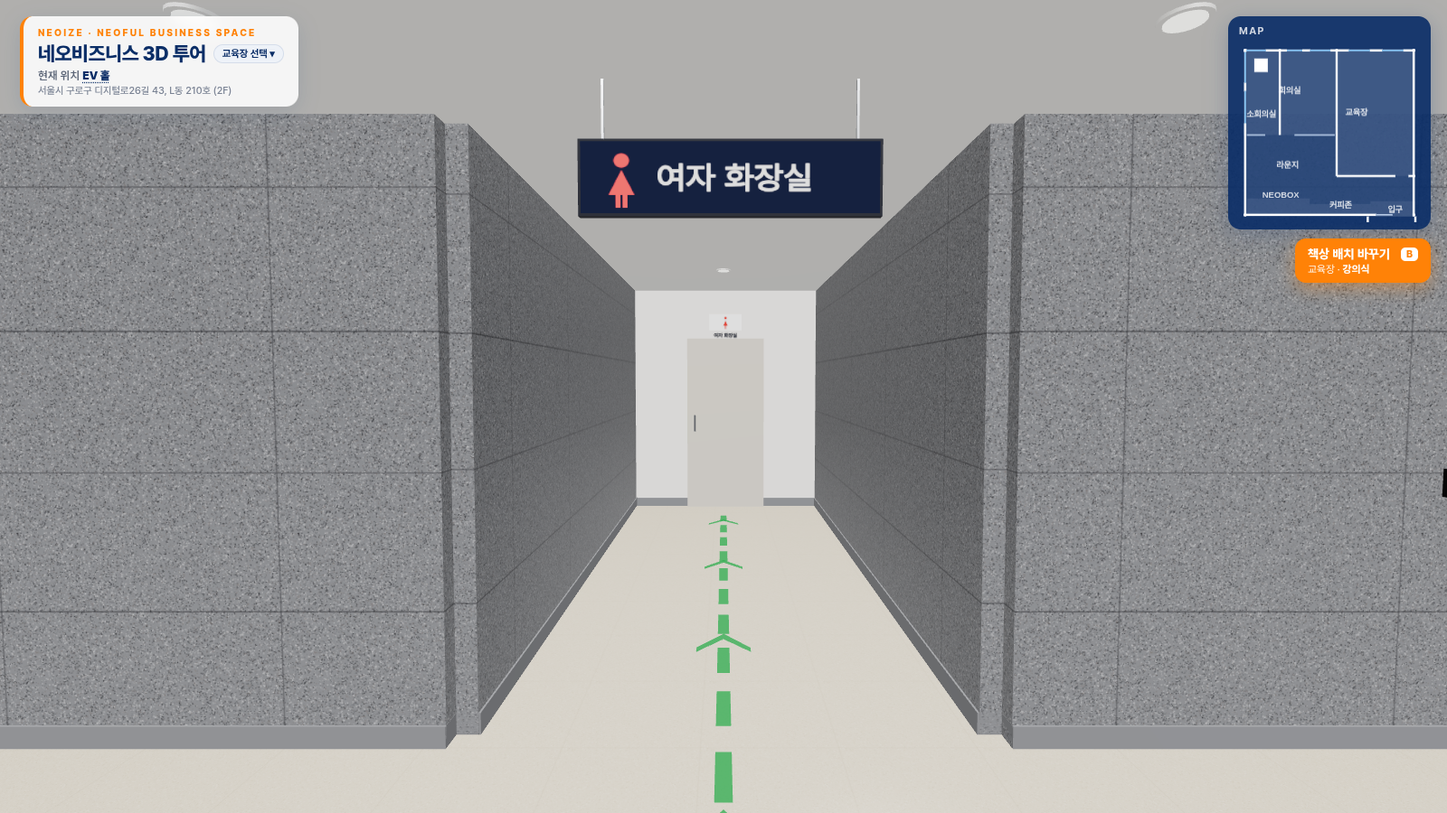
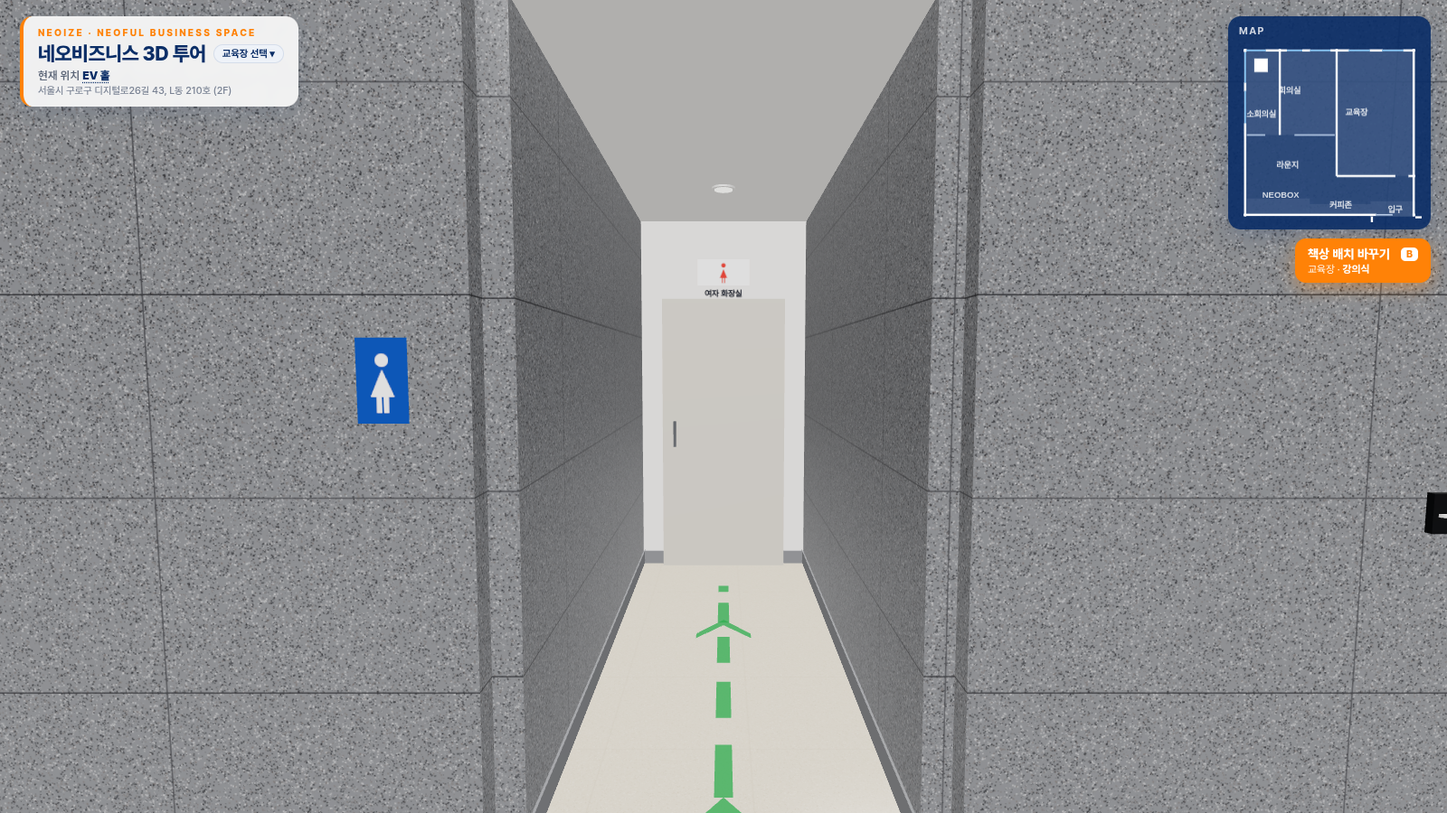
서울: 정면 통로 복원(링 복도·EV홀·OK세무회계·뒤쪽 엘리베이터 3대), 부산: 복도 2.8m·교육장 문 밀어서 열림·북쪽 벽 기둥 (v11200920)

diff --git a/sites/seoul/layout.js b/sites/seoul/layout.js
@@ -64,13 +64,13 @@ window.LAYOUT = {
       label:[11.0, 11.6], jump:{ x:11.5, z:11.3, look:[11.2, 8.0] },
       card:{ photos:['IMG_0378','IMG_0380','IMG_0388'],
              desc:'유리문 위에 Neoful business space 사인이 있는 입구예요. 들어오면 교육장 앞 디스플레이 월과 배너가 보여요.' } },
-    // (11/19 사용자 도면 '화장실 가는 길') 건물 공용 복도 — 유리입구 → 서쪽 공용 복도(남쪽) → 엘리베이터 홀 → 여자·남자 화장실. 도면 축척 x 0.075 m/px, z 0.0712 m/px (Neoful 12.45 × 12.1m 기준)
-    { id:'restroom', name:'화장실', en:'Restroom', small:true, rect:[19.9, 22.9, 22.35, 28.1], rects:[[36.9, 22.9, 39.75, 28.1]], floor:'floor',
-      label:[21.1, 24.2], jump:{ x:21.1, z:29.4, look:[21.1, 23.0] },
-      card:{ photos:[], desc:'유리입구로 나가 공용 복도를 따라 남쪽으로 내려간 뒤, 엘리베이터 홀 왼쪽이 여자 화장실, 오른쪽 끝이 남자 화장실이에요.' } },
-    { id:'evhall', name:'EV 홀', en:'Elevator Hall', small:true, rect:[12.45, 28.1, 47.25, 31.1], floor:'floor',
-      label:[29.6, 29.6], jump:{ x:13.5, z:29.6, look:[40.0, 29.6] },
-      card:{ photos:[], desc:'엘리베이터 3대가 있는 홀이에요. 회색 화강석 벽과 광택 바닥, 엘리베이터 앞 노란 점자블록이 있어요. 홀 양쪽 끝 가까이에 여자·남자 화장실이 있어요.' } },
+    // (11/20 사용자 건물 도면 seoul_plan2 · 사진) 2층 공용 복도: 코어(계단·화장실·엘리베이터)를 도는 ㅁ자 복도 + 코어 가운데 엘리베이터 홀. 축척 x 0.0465 m/px, z 0.0469 m/px (4배 확대 도면 기준, L210 = Neoful)
+    { id:'restroom', name:'화장실', en:'Restroom', small:true, rect:[15.35, 20.26, 16.83, 23.36], rects:[[25.95, 20.26, 27.53, 23.36]], floor:'floor',
+      label:[16.09, 21.3], jump:{ x:16.09, z:25.2, look:[16.09, 20.3] },
+      card:{ photos:[], desc:'유리입구로 나가 왼쪽 복도를 따라 내려가면 엘리베이터 홀이에요. 홀 북쪽 계단실 옆 통로 안쪽이 여자 화장실, 반대쪽 끝 통로 안쪽이 남자 화장실이에요.' } },
+    { id:'evhall', name:'EV 홀', en:'Elevator Hall', small:true, rect:[12.00, 23.36, 31.06, 28.05], floor:'floor',
+      label:[21.5, 25.7], jump:{ x:30.4, z:25.7, look:[9.3, 25.7] },
+      card:{ photos:[], desc:'코어 가운데 엘리베이터 홀이에요. 북쪽에 엘리베이터 3대와 화장실 통로, 남쪽에 엘리베이터 3대와 흰 문이 있어요. 회색 화강석 벽, 광택 바닥, 엘리베이터 앞 노란 점자블록이 있어요.' } },
     { id:'lounge', name:'라운지', en:'Lounge', rect:[0, 6.22, 12.45, 12.1], floor:'floor',
       label:[3.2, 8.4], jump:{ x:3.2, z:9.9, look:[5.4, 7.0] },
       card:{ photos:['IMG_0420','IMG_0421','IMG_0422','IMG_0424'],
@@ -136,43 +136,62 @@ window.LAYOUT = {
     // bay = 유리 한 장의 대략 폭(m). 구간 길이 ÷ bay 를 반올림한 수만큼 유리가 나뉘어요.
     { from:[6.75, 9.18], to:[12.45, 9.18], type:'solid', t:0.30, sign:{ text:'EDUCATION CENTER', at:11.475, y:2.33, size:0.1 },   // 문 위 사인
       openings:[ { at:11.0, width:0.95, door:'glass', frame:'white', hinge:'end', swing:-88 } ] },  // 교육장 출입문
-    // ===== 건물 공용 복도(사용자 도면 11/19, 사진 seoul_corr1 · seoul_corr2_elev) — finish: 'white'(흰 벽+회색 걸레받이) / 'granite'(화강석) =====
-    // 서쪽 공용 복도 x9.0–12.45, z12.1–28.1: 서쪽 = 다른 호실 유리 전면, 동쪽 = 흰 벽(STAIRS 방화문 · 소화전함) → 남쪽 끝 화강석
-    { from:[9.0, 12.1],  to:[9.0, 14.6],  type:'solid', finish:'white', t:0.16 },
-    { from:[9.0, 14.6],  to:[9.0, 27.2],  type:'glass', style:'store', bay:1.4, t:0.12 },     // 다른 호실 유리 전면(출입 불가)
-    { from:[9.0, 27.2],  to:[9.0, 31.1],  type:'solid', finish:'granite', t:0.16 },
-    { from:[12.45, 12.1], to:[12.45, 27.3], type:'solid', finish:'white', t:0.16 },
-    { from:[12.45, 27.3], to:[12.45, 28.1], type:'solid', finish:'granite', t:0.2 },
-    // 엘리베이터 홀 z28.1–31.1, x9.0–47.25: 북쪽 = 여자 화장실 입구 · 엘리베이터 3대 · 남자 화장실 입구, 남쪽 = 화강석 + 흰 문 2개, 동쪽 끝 유리문
-    { from:[12.45, 28.1], to:[19.9, 28.1], type:'solid', finish:'granite', t:0.2 },
-    { from:[22.35, 28.1], to:[36.9, 28.1], type:'solid', finish:'granite', t:0.2 },
-    { from:[39.75, 28.1], to:[47.25, 28.1], type:'solid', finish:'granite', t:0.2 },
-    { from:[9.0, 31.1],  to:[47.25, 31.1], type:'solid', finish:'granite', t:0.2 },
-    { from:[47.25, 28.1], to:[47.25, 31.1], type:'glass', t:0.12,
-      openings:[ { at:28.85, width:1.5, door:'glass', double:true, locked:true } ] },          // 홀 동쪽 끝 유리문(출입 불가)
-    // 화장실 앞 통로(도면 문 표시 자리): 여자 x19.9–22.35, 남자 x36.9–39.75, z22.9–28.1
-    { from:[19.9, 22.9], to:[19.9, 28.1], type:'solid', finish:'granite', t:0.2 },
-    { from:[22.35, 22.9], to:[22.35, 28.1], type:'solid', finish:'granite', t:0.2 },
-    { from:[19.9, 22.9], to:[22.35, 22.9], type:'solid', finish:'white', t:0.2 },
-    { from:[36.9, 22.9], to:[36.9, 28.1], type:'solid', finish:'granite', t:0.2 },
-    { from:[39.75, 22.9], to:[39.75, 28.1], type:'solid', finish:'granite', t:0.2 },
-    { from:[36.9, 22.9], to:[39.75, 22.9], type:'solid', finish:'white', t:0.2 }   // (교육장 출입문: 남쪽 벽 동쪽 끝) 경첩은 동쪽, 교육장 안으로 88° 열려 동쪽 벽 쪽에 붙음 → 통로 쪽 길을 막지 않음
+    // ===== 2층 공용 복도 (11/20 사용자 도면 seoul_plan2 + 사진) — finish 'white' = 흰 벽+회색 걸레받이, 'granite' = 화강석, store = 다른 호실 유리 전면(출입 불가) =====
+    // 북쪽 복도(유리입구 앞, 사진 seoul_entrance_out): 북쪽 = Neoful · L211 OK 세무회계 · L212–L215, 남쪽 = 코어 흰 벽
+    { from:[12.45, 12.16], to:[13.35, 12.16], type:'solid', finish:'white', t:0.12 },   // L211 OK 세무회계 우드 슬랫 기둥(furniture okSlats 가 앞에 붙음)
+    { from:[13.35, 12.16], to:[16.97, 12.16], type:'glass', style:'store', bay:1.4, t:0.12 },   // L211 OK 세무회계 유리 전면
+    { from:[16.97, 12.16], to:[21.48, 12.16], type:'glass', style:'store', bay:1.4, t:0.12 },   // L212
+    { from:[21.48, 12.16], to:[26.04, 12.16], type:'glass', style:'store', bay:1.4, t:0.12 },   // L213
+    { from:[26.04, 12.16], to:[30.69, 12.16], type:'glass', style:'store', bay:1.4, t:0.12 },   // L214
+    { from:[30.69, 12.16], to:[33.71, 12.16], type:'glass', style:'store', bay:1.4, t:0.12 },   // L215
+    { from:[12.00, 14.77], to:[31.06, 14.77], type:'solid', finish:'white', t:0.20 },   // 코어 북쪽 면(흰 벽)
+    // 서쪽 복도(사진 seoul_corr_stairs): 서쪽 = L209·L208·L207·L206 유리 전면, 동쪽 = 코어(계단실 STAIRS 문 · 소화전함) → 홀 모서리 화강석
+    { from:[9.30, 12.10], to:[9.30, 14.77], type:'solid', finish:'white', t:0.16 },
+    { from:[9.30, 14.77], to:[9.30, 19.60], type:'glass', style:'store', bay:1.4, t:0.12 },   // L209
+    { from:[9.30, 19.60], to:[9.30, 28.14], type:'glass', style:'store', bay:1.4, t:0.12 },   // L208
+    { from:[9.30, 28.14], to:[9.30, 35.18], type:'glass', style:'store', bay:1.4, t:0.12 },   // L207
+    { from:[12.00, 14.77], to:[12.00, 22.90], type:'solid', finish:'white', t:0.20 },   // 서쪽 계단실 벽(흰 벽)
+    { from:[12.00, 22.90], to:[12.00, 23.36], type:'solid', finish:'granite', t:0.20 },
+    { from:[12.00, 28.05], to:[12.00, 28.50], type:'solid', finish:'granite', t:0.20 },
+    { from:[12.00, 28.50], to:[12.00, 32.74], type:'solid', finish:'white', t:0.20 },
+    // 엘리베이터 홀 북쪽(코어 윗블록): 서쪽 계단실 · 여자 화장실 통로 · 엘리베이터 3대 · 남자 화장실 통로 · 동쪽 계단실
+    { from:[12.00, 23.36], to:[15.35, 23.36], type:'solid', finish:'granite', t:0.20 },
+    { from:[16.83, 23.36], to:[25.95, 23.36], type:'solid', finish:'granite', t:0.20 },
+    { from:[27.53, 23.36], to:[31.06, 23.36], type:'solid', finish:'granite', t:0.20 },
+    // 엘리베이터 홀 남쪽(코어 아랫블록): 흰 문 3개 + 엘리베이터 3대(도면 아이콘), 화강석
+    { from:[12.00, 28.05], to:[31.06, 28.05], type:'solid', finish:'granite', t:0.20 },
+    // 화장실 통로(도면: 엘리베이터 블록 양옆) — 안쪽 끝에 화장실 문
+    { from:[15.35, 20.26], to:[15.35, 23.36], type:'solid', finish:'granite', t:0.20 },
+    { from:[16.83, 20.26], to:[16.83, 23.36], type:'solid', finish:'granite', t:0.20 },
+    { from:[15.35, 20.26], to:[16.83, 20.26], type:'solid', finish:'white', t:0.20 },
+    { from:[25.95, 20.26], to:[25.95, 23.36], type:'solid', finish:'granite', t:0.20 },
+    { from:[27.53, 20.26], to:[27.53, 23.36], type:'solid', finish:'granite', t:0.20 },
+    { from:[25.95, 20.26], to:[27.53, 20.26], type:'solid', finish:'white', t:0.20 },
+    // 동쪽 복도: 동쪽 = L216 · L217 등 유리 전면, 서쪽 = 코어
+    { from:[33.71, 12.16], to:[33.71, 35.18], type:'glass', style:'store', bay:1.4, t:0.12 },
+    { from:[31.06, 14.77], to:[31.06, 23.36], type:'solid', finish:'white', t:0.20 },
+    { from:[31.06, 28.05], to:[31.06, 32.74], type:'solid', finish:'white', t:0.20 },
+    // 남쪽 복도: 남쪽 = L206–L201 쪽 유리 전면, 북쪽 = 코어 아랫블록
+    { from:[9.30, 35.18], to:[33.71, 35.18], type:'glass', style:'store', bay:1.4, t:0.12 },
+    { from:[12.00, 32.74], to:[31.06, 32.74], type:'solid', finish:'white', t:0.20 },
+    // (교육장 출입문 설명:(남쪽 벽 동쪽 끝). 경첩은 동쪽, 교육장 안으로 88° 열려 동쪽 벽 쪽에 붙음 → 통로 쪽 길을 막지 않음
   ],
 
   /* 입구 바깥 복도(건물 밖 짧은 복도) + 입구 포털(바깥에서 본 모습, 사용자 사진)
      rect : 복도 [x1, z1, x2, z2] (z1 = 건물 남쪽 바깥면), portal : 세이지 그린 프레임 x0~x1, door = 양문 [x 시작, x 끝], text = 간판 글씨, room = 호수 */
-  corridor: { rect:[9.0, 12.1, 12.45, 14.3], shell:false,
+  corridor: { rect:[9.3, 12.1, 12.45, 14.3], shell:false,   // shell:false = 예전 짧은 복도 상자 대신 아래 public 공용 복도 사용
+   
     portal: { x0:9.4, x1:12.45, door:[10.8, 12.25], top:2.12, color:'#9BA59A', text:'Neoful business space', room:'210호' } },
 
   /* 벽 블록(소회의실 안 흰 정사각형) 같은 기둥: rect = [x1,z1,x2,z2], slats = 우드 슬랫을 붙일 면 */
-  /* 건물 공용 복도 바닥(테라조)·천장 영역 [x1,z1,x2,z2] — 걷기 가능 */
-  public: { floors: [ [9.0, 12.1, 12.45, 31.1], [12.45, 28.1, 47.25, 31.1], [19.9, 22.9, 22.35, 28.1], [36.9, 22.9, 39.75, 28.1] ],
-            units: [ [4.5, 14.6, 8.94, 27.2] ] },   // units = 유리 너머 다른 호실 바닥(보기만, 출입 불가)
+  /* 2층 공용 복도 바닥(테라조)·천장 [x1,z1,x2,z2] — 걸을 수 있음. units = 유리 너머 다른 호실(보기만) */
+  public: { floors: [ [9.30, 12.10, 33.71, 14.77], [9.30, 14.77, 12.00, 35.18], [12.00, 23.36, 31.06, 28.05], [31.06, 14.77, 33.71, 35.18], [12.00, 32.74, 31.06, 35.18], [15.35, 20.26, 16.83, 23.36], [25.95, 20.26, 27.53, 23.36] ],
+            units: [ [4.6, 14.9, 9.24, 35.18], [12.6, 8.5, 33.71, 12.1, 's'], [33.77, 12.1, 38.5, 35.18, 'w'], [9.3, 35.24, 33.71, 39.5, 'n'] ] },
 
-  /* 바닥 초록 동선: 교육장 문 → 유리입구 → 공용 복도 → 엘리베이터 홀 → 여자 화장실 / 남자 화장실 */
+  /* 바닥 초록 동선: 교육장 문 → 유리입구 → 서쪽 복도 → 엘리베이터 홀 → 여자 / 남자 화장실 */
   routes: [
-    { color:'#2fa84f', points:[[11.47, 9.6], [11.5, 11.5], [10.75, 12.8], [10.75, 29.6], [21.1, 29.6], [21.1, 23.6]] },
-    { color:'#2fa84f', points:[[21.1, 29.6], [38.3, 29.6], [38.3, 23.6]] }
+    { color:'#2fa84f', points:[[11.47, 9.6], [11.5, 11.5], [10.65, 13.4], [10.65, 25.7], [16.09, 25.7], [16.09, 20.9]] },
+    { color:'#2fa84f', points:[[16.09, 25.7], [26.74, 25.7], [26.74, 20.9]] }
   ],
 
   columns: [
@@ -197,18 +216,15 @@ window.LAYOUT = {
       { x:8.2, z:2.4, len:1.2 }, { x:11.2, z:2.4, len:1.2 },
       { x:8.2, z:4.9, len:1.2 }, { x:11.2, z:4.9, len:1.2 },
       { x:8.2, z:7.4, len:1.2 }, { x:11.2, z:7.4, len:1.2 },
-      // 공용 복도(사진1): 남북 방향 긴 라인 조명 / 엘리베이터 홀(사진2): 동서 방향 슬롯 조명
-      { x:10.72, z:15.0, len:2.4, w:0.12 }, { x:10.72, z:19.0, len:2.4, w:0.12 }, { x:10.72, z:23.0, len:2.4, w:0.12 }, { x:10.72, z:27.0, len:2.4, w:0.12 },
-      { x:18.0, z:29.6, len:8.0, w:0.06, rot:90 }, { x:29.6, z:29.6, len:12.0, w:0.06, rot:90 }, { x:41.0, z:29.6, len:8.0, w:0.06, rot:90 }
+      // 공용 복도 라인 조명(사진) + 엘리베이터 홀 가운데 슬롯 조명(사진)
+      { x:10.65, z:15.5, len:2.4, w:0.12 }, { x:10.65, z:19.0, len:2.4, w:0.12 }, { x:10.65, z:22.0, len:2.4, w:0.12 }, { x:10.65, z:30.5, len:2.4, w:0.12 }, { x:10.65, z:33.9, len:2.4, w:0.12 }, { x:14.5, z:13.45, len:2.4, w:0.12, rot:90 }, { x:18.5, z:13.45, len:2.4, w:0.12, rot:90 }, { x:22.5, z:13.45, len:2.4, w:0.12, rot:90 }, { x:26.5, z:13.45, len:2.4, w:0.12, rot:90 }, { x:30.5, z:13.45, len:2.4, w:0.12, rot:90 }, { x:32.38, z:18.0, len:2.4, w:0.12 }, { x:32.38, z:31.0, len:2.4, w:0.12 }, { x:16.0, z:33.96, len:2.4, w:0.12, rot:90 }, { x:22.0, z:33.96, len:2.4, w:0.12, rot:90 }, { x:28.0, z:33.96, len:2.4, w:0.12, rot:90 }, { x:21.53, z:25.7, len:18.0, w:0.06, rot:90 }
     ],
     projectors: [
       { x:9.69, z:5.9, aim:[9.555, 0.4], drop:0.3, color:'black', label:'빔프로젝트' },
       { x:4.63, z:4.2, aim:[4.63, 0.59], drop:0.15, color:'white', label:'빔프로젝트' }   // 회의실: 천장 흰색 프로젝터(사진 IMG_0391), 스크린을 향함   // 에어컨 뒤쪽, 내려오는 스크린 정면을 향함
     ],
     downlights: [[7.4, 1.0], [8.2, 1.0], [10.9, 1.0], [11.8, 1.0],
-      [10.0, 29.0], [11.5, 30.2], [13.5, 28.9], [13.5, 30.3], [16.5, 28.9], [16.5, 30.3], [19.5, 28.9], [19.5, 30.3], [22.5, 28.9], [22.5, 30.3], [25.5, 28.9], [25.5, 30.3], [28.5, 28.9], [28.5, 30.3],
-      [31.5, 28.9], [31.5, 30.3], [34.5, 28.9], [34.5, 30.3], [37.5, 28.9], [37.5, 30.3], [40.5, 28.9], [40.5, 30.3], [43.5, 28.9], [43.5, 30.3], [46.0, 29.6],
-      [21.1, 24.5], [21.1, 26.8], [38.3, 24.5], [38.3, 26.8]],   // 앞쪽 작은 원형 다운라이트
+      [13.0, 24.5], [13.0, 26.9], [14.6, 24.5], [14.6, 26.9], [16.2, 24.5], [16.2, 26.9], [17.8, 24.5], [17.8, 26.9], [19.4, 24.5], [19.4, 26.9], [21.0, 24.5], [21.0, 26.9], [22.6, 24.5], [22.6, 26.9], [24.2, 24.5], [24.2, 26.9], [25.8, 24.5], [25.8, 26.9], [27.4, 24.5], [27.4, 26.9], [29.0, 24.5], [29.0, 26.9], [30.6, 24.5], [30.6, 26.9], [16.09, 21.3], [26.74, 21.3]],   // 앞쪽 작은 원형 다운라이트
     aircon: [[4.63, 2.96], [9.69, 4.0, 1.0], [1.96, 8.9, 1.0]]   // [x, z, 크기] — 회의실, 교육장 1대, 라운지 1대
   },
 
@@ -371,18 +387,22 @@ window.LAYOUT = {
     /* --- 입구 --- */
     { type:'mat', x:11.52, z:11.4, w:1.4, d:0.8, color:'orange' },
 
-    /* --- 건물 공용 복도 · 엘리베이터 홀 · 화장실 (사용자 도면 11/19 + 사진) --- */
-    { type:'fireCabinet', x:12.36, z:23.6, rot:90 },                                     // 베이지 소화전·경보 함(사진1)
-    { type:'stairsDoor', x:12.35, z:25.9, rot:90 },                                      // STAIRS 방화문(도면: 왼쪽 방 문 = 계단실)
-    { type:'restroom', x:21.125, z:23.02, rot:180, kind:'f', text:'여자 화장실', w:0.95 },   // 여자 화장실 문(닫힘)
-    { type:'restroom', x:38.325, z:23.02, rot:180, kind:'m', text:'남자 화장실', w:0.95 },   // 남자 화장실 문(닫힘)
-    { type:'elevator', x:24.98, z:28.21, rot:180, floor:2, noPanel:true },                // 엘리베이터 3대(도면: 문이 남쪽을 봄)
-    { type:'elevator', x:29.6,  z:28.21, rot:180, floor:2, noPanel:true },
-    { type:'elevator', x:34.1,  z:28.21, rot:180, floor:2, noPanel:true },
-    { type:'tactile', x:24.98, z:28.6, w:1.2, d:0.3 }, { type:'tactile', x:29.6, z:28.6, w:1.2, d:0.3 }, { type:'tactile', x:34.1, z:28.6, w:1.2, d:0.3 },
-    { type:'plainDoor', x:16.5, z:30.99, rot:0 }, { type:'plainDoor', x:43.0, z:30.99, rot:0 },   // 홀 남쪽 흰 문(관리실 등, 닫힘·장식)
-    { type:'extinguisher', x:9.3, z:28.6 },
-    { type:'hangSign', x:21.125, z:28.5, kind:'f', text:'여자 화장실', w:1.1 },          // 화장실 입구 매달린 사인
-    { type:'hangSign', x:38.325, z:28.5, kind:'m', text:'남자 화장실', w:1.1 }
+    /* --- 2층 공용 복도 · 엘리베이터 홀 · 화장실 (11/20 도면 seoul_plan2 + 사진) --- */
+    { type:'okSlats', x:12.9, z:12.22, w:0.9, text:'OK 세무회계' },                          // 옆 호실 L211 OK 세무회계 우드 슬랫 + 사인(사진)
+    { type:'fireCabinet', x:11.91, z:19.8, rot:90 },                                     // 베이지 소화전·경보 함(사진)
+    { type:'stairsDoor', x:11.9, z:21.6, rot:90 },                                       // 서쪽 계단실 STAIRS 방화문(도면 계단 아이콘 · 사진)
+    { type:'restroom', x:16.09, z:20.38, rot:180, kind:'f', text:'여자 화장실', w:0.95 },   // 여자 화장실 문(닫힘)
+    { type:'restroom', x:26.74, z:20.38, rot:180, kind:'m', text:'남자 화장실', w:0.95 },   // 남자 화장실 문(닫힘)
+    { type:'pictoPlate', x:15.10, z:23.47, rot:180, kind:'f' }, { type:'pictoPlate', x:27.78, z:23.47, rot:180, kind:'m' },   // 통로 입구 옆 파란 픽토그램 사인(사진)
+    { type:'elevator', x:19.00, z:23.47, rot:180, floor:2, noPanel:true, dark:true }, { type:'tactile', x:19.00, z:23.81, w:0.6, d:0.3 },
+    { type:'elevator', x:21.39, z:23.47, rot:180, floor:2, noPanel:true, dark:true }, { type:'tactile', x:21.39, z:23.81, w:0.6, d:0.3 },
+    { type:'elevator', x:23.78, z:23.47, rot:180, floor:2, noPanel:true, dark:true }, { type:'tactile', x:23.78, z:23.81, w:0.6, d:0.3 },   // 북쪽 엘리베이터 3대(코어 윗블록, 홀을 봄)
+    { type:'elevator', x:15.44, z:27.94, rot:0, floor:2, noPanel:true, dark:true }, { type:'tactile', x:15.44, z:27.60, w:0.6, d:0.3 },
+    { type:'elevator', x:20.60, z:27.94, rot:0, floor:2, noPanel:true, dark:true }, { type:'tactile', x:20.60, z:27.60, w:0.6, d:0.3 },
+    { type:'elevator', x:23.60, z:27.94, rot:0, floor:2, noPanel:true, dark:true }, { type:'tactile', x:23.60, z:27.60, w:0.6, d:0.3 },   // 남쪽 엘리베이터 3대(코어 아랫블록, 홀을 봄 — 사용자: 화장실·엘리베이터 뒤 3대 더)
+    { type:'plainDoor', x:13.00, z:27.94, rot:0 },
+    { type:'plainDoor', x:17.95, z:27.94, rot:0 },
+    { type:'plainDoor', x:29.90, z:27.94, rot:0 },   // 홀 남쪽 흰 문(도면 밝은 회색 칸, 사진)
+    { type:'extinguisher', x:9.55, z:23.6 }
   ]
 };

diff --git a/sites/busan/layout.js b/sites/busan/layout.js
@@ -20,16 +20,16 @@ window.LAYOUT = {
     { id:'classroom', name:'교육장', en:'Education Center', rect:[10.0, 2.0, 20.7, 13.52], floor:'floor',
       label:[15.4, 8.24], jump:{ x:19.6, z:12.6, look:[10.0, 7.0] },
       card:{ photos:[],
-             desc:'부산 교육장. 서쪽 벽에 스크린과 양옆 유리 화이트보드, 천장 빔프로젝트가 있고, 동쪽은 연속 창, 남쪽은 동쪽 끝 통창 2칸이에요. 흰 접이식 책상이 북쪽·남쪽 2구역에 5줄씩(줄마다 4인, 40석), 가운데 통로에 흰 사각 기둥이 있어요.',
+             desc:'부산 교육장. 서쪽 벽에 스크린과 양옆 유리 화이트보드, 천장 빔프로젝트가 있고, 동쪽은 연속 창, 남쪽은 동쪽 끝 통창 2칸이에요. 흰 접이식 책상이 북쪽·남쪽 2구역에 4줄씩(32석), 가운데와 북쪽·남쪽 벽에 흰 사각 기둥이 있어요.',
              services:['스크린','빔프로젝트','유리 화이트보드','냉난방'] } },
     { id:'entrance', name:'입구', en:'Entrance', small:true, rect:[1.5, 0, 6.0, 2.0], floor:'floor',
       label:[2.3, 0.6], jump:{ x:3.73, z:0.45, look:[3.73, 4.0] },
       card:{ photos:[], desc:'9층 출입구(북쪽 벽 비상구 표시 아래 유리문)예요. 들어와서 초록 경로를 따라 북쪽 복도를 동쪽으로 가면 끝에 교육장 문이 있어요. 화장실은 서쪽 복도 끝 왼쪽 문이에요.' } },
-    { id:'corridor', name:'복도', en:'Corridor', small:true, rect:[0, 2.0, 10.0, 4.12], rects:[[0, 4.12, 2.64, 7.01]], floor:'floor',
-      label:[6.6, 3.05], jump:{ x:4.2, z:3.05, look:[10.0, 2.8] }, card:{ photos:[], desc:'입구에서 교육장까지 이어지는 복도예요. 서쪽 복도 끝 왼쪽(서쪽 벽)에 화장실 문이 있어요.' } },
-    { id:'instructor', name:'강사대기실', en:'Instructor Room', small:true, noEntry:true, rect:[4.65, 4.12, 10.0, 5.66], floor:'floor', label:[7.3, 4.9],
-      jump:{ x:7.3, z:4.6, look:[10.0, 4.6] }, card:{ photos:[], desc:'복도와 교육장 사이의 강사대기실 (출입 불가).' } },
-    { id:'office', name:'직원 사무실', en:'Staff Office', small:true, noEntry:true, rect:[0, 7.01, 10.0, 13.52], rects:[[2.64, 5.66, 10.0, 7.01], [2.64, 4.12, 4.65, 5.66]], floor:'floor', label:[5.0, 9.9],
+    { id:'corridor', name:'복도', en:'Corridor', small:true, rect:[0, 2.0, 10.0, 4.8], rects:[[0, 4.8, 2.64, 7.01]], floor:'floor',
+      label:[6.6, 3.4], jump:{ x:4.2, z:3.4, look:[10.0, 3.3] }, card:{ photos:[], desc:'입구에서 교육장까지 이어지는 복도예요. 서쪽 복도 끝 왼쪽(서쪽 벽)에 화장실 문이 있어요.' } },
+    { id:'instructor', name:'강사대기실', en:'Instructor Room', small:true, noEntry:true, rect:[4.65, 4.8, 10.0, 6.34], floor:'floor', label:[7.3, 5.57],
+      jump:{ x:7.3, z:5.28, look:[10.0, 5.28] }, card:{ photos:[], desc:'복도와 교육장 사이의 강사대기실 (출입 불가).' } },
+    { id:'office', name:'직원 사무실', en:'Staff Office', small:true, noEntry:true, rect:[0, 7.01, 10.0, 13.52], rects:[[2.64, 6.34, 10.0, 7.01], [2.64, 4.8, 4.65, 6.34]], floor:'floor', label:[5.0, 9.9],
       jump:{ x:5.0, z:9.9, look:[10.0, 9.9] }, card:{ photos:[], desc:'건물 남서쪽 직원 사무실 (출입 불가).' } }
   ],
 
@@ -37,8 +37,8 @@ window.LAYOUT = {
 
   // 바닥 동선(안내도 초록): 북쪽 출입구 → 북쪽 복도 동쪽 → 교육장 문 / 북쪽 복도 → 서쪽 복도 → 화장실 문
   routes: [
-    { color:'#2fa84f', points:[[3.73, 0.8], [3.73, 2.8], [10.9, 2.8], [11.6, 3.4]] },
-    { color:'#2fa84f', opacity:0.55, points:[[3.73, 2.8], [1.3, 2.8], [1.3, 5.57], [0.6, 5.57]] }
+    { color:'#2fa84f', points:[[3.73, 0.8], [3.73, 3.4], [10.9, 3.3], [11.6, 3.6]] },
+    { color:'#2fa84f', opacity:0.55, points:[[3.73, 3.4], [1.3, 3.4], [1.3, 5.9], [0.6, 5.9]] }
   ],
 
   walls: [
@@ -60,25 +60,26 @@ window.LAYOUT = {
       openings:[ { at:2.9, width:1.66, door:'glass', double:true, entrance:true, frame:'white', open:true } ] },
     // 북쪽 복도 남쪽 벽 (강사대기실·사무실과 구분)
     // 북쪽 복도 남쪽 벽(사진: 서→동) 직원 사무실 문 · 금색 사인 · 블라인드 유리 3칸 · 강사대기실 문 (at = 문 시작 x)
-    { from:[2.64, 4.12], to:[5.55, 4.12], type:'solid',
+    { from:[2.64, 4.8], to:[5.55, 4.8], type:'solid',
       openings:[ { at:3.1, width:0.9, door:'wood', frame:'white', hinge:'start', swing:-88, locked:true } ] },   // 직원 사무실 문(출입 불가)
-    { from:[5.55, 4.12], to:[8.25, 4.12], type:'glass', style:'blinds', bay:0.9 },                              // 강사대기실 유리 칸막이 + 흰 블라인드
-    { from:[8.25, 4.12], to:[10.0, 4.12], type:'solid',
+    { from:[5.55, 4.8], to:[8.25, 4.8], type:'glass', style:'blinds', bay:0.9 },                              // 강사대기실 유리 칸막이 + 흰 블라인드
+    { from:[8.25, 4.8], to:[10.0, 4.8], type:'solid',
       openings:[ { at:8.35, width:0.95, door:'wood', vision:'tall', frame:'white', hinge:'end', swing:88, locked:true } ] },   // 강사대기실 문(세로 긴 반투명 유리, 출입 불가)
     // 서쪽 복도 동쪽 벽 + 직원 사무실 문(추정 위치, 출입 불가)
-    { from:[2.64, 4.12], to:[2.64, 7.01], type:'solid' },
+    { from:[2.64, 4.8], to:[2.64, 7.01], type:'solid' },
     { from:[0, 7.01], to:[2.64, 7.01], type:'solid' },   // 서쪽 복도 끝
     // 강사대기실
-    { from:[4.65, 4.12], to:[4.65, 5.66], type:'solid' },
-    { from:[4.65, 5.66], to:[10.0, 5.66], type:'solid' },
+    { from:[4.65, 4.8], to:[4.65, 6.34], type:'solid' },
+    { from:[4.65, 6.34], to:[10.0, 6.34], type:'solid' },
     // 교육장 서쪽(스크린) 벽: 북쪽 끝(z2.25–3.25)에 교육장 문
     { from:[10.0, 2.0], to:[10.0, 13.52], type:'solid',
-      openings:[ { at:2.25, width:1.1, door:'wood', vision:'panel', frame:'white', casing:0.06, hinge:'start', swing:-88 } ] }   // 북쪽 복도 끝 = 교육장 문(큰 반투명 유리, E 로 열기)
+      openings:[ { at:2.86, width:0.92, door:'wood', vision:'panel', frame:'white', casing:0.06, hinge:'end', swing:-88 } ] }   // 북쪽 복도 끝 = 교육장 문(사진 busan_corr_photo_wide: 벽 가운데쯤, 레버 왼쪽=북쪽 → 경첩 오른쪽=남쪽, 복도에서 교육장 쪽으로 밀어서 열림)
   ],
 
   // 북쪽 2m 띠 중 입구 앞 홀(x1.5–6.0)만 걸을 수 있음 / 교육장 가운데쯤 흰 사각 기둥 2개(x15.4–16.4)(안내도 회색 사각형, 사진)
   columns: [
     { rect:[0, 0, 1.5, 2.0], block:true }, { rect:[6.0, 0, 20.7, 2.0], block:true },
+    { rect:[15.4, 2.0, 16.4, 3.0] },       // 북쪽 벽에 붙은 기둥(모퉁이 튀어나옴) — 최종 도면 busan_plan_final 북쪽 회색 사각형 + 사진(스크린 등지고 왼쪽), 깊이 1.0m 도면 비율로 추정
     { rect:[15.4, 7.74, 16.4, 8.74] },     // 사용자 표시(회색 박스): 앞(스크린 쪽)으로 옮김
     { rect:[15.4, 12.42, 16.4, 13.40] }
   ],
@@ -92,9 +93,9 @@ window.LAYOUT = {
       { x:11.6, z:10.6, len:1.2, w:0.3, rot:90, twin:true }, { x:14.1, z:10.6, len:1.2, w:0.3, rot:90, twin:true }, { x:16.6, z:10.6, len:1.2, w:0.3, rot:90, twin:true }, { x:19.1, z:10.6, len:1.2, w:0.3, rot:90, twin:true },
       { x:11.6, z:12.95, len:1.2, w:0.3, rot:90, twin:true }, { x:14.1, z:12.95, len:1.2, w:0.3, rot:90, twin:true }, { x:16.6, z:12.95, len:1.2, w:0.3, rot:90, twin:true }, { x:19.1, z:12.95, len:1.2, w:0.3, rot:90, twin:true },
       { x:3.73, z:1.0, len:1.2, w:0.1, rot:90 },
-      { x:2.0, z:3.05, len:1.2, w:0.1, rot:90 }, { x:5.0, z:3.05, len:1.2, w:0.1, rot:90 }, { x:8.0, z:3.05, len:1.2, w:0.1, rot:90 },
-      { x:1.3, z:5.2, len:1.2, w:0.1, rot:0 },
-      { x:7.3, z:4.64, len:1.2, w:0.1, rot:90 },
+      { x:2.0, z:3.4, len:1.2, w:0.3, rot:90, twin:true }, { x:5.0, z:3.4, len:1.2, w:0.3, rot:90, twin:true }, { x:8.0, z:3.4, len:1.2, w:0.3, rot:90, twin:true },
+      { x:1.3, z:5.9, len:1.2, w:0.1, rot:0 },
+      { x:7.3, z:5.57, len:1.2, w:0.1, rot:90 },
       { x:3.0, z:9.0, len:1.2, w:0.1, rot:90 }, { x:7.0, z:9.0, len:1.2, w:0.1, rot:90 }, { x:3.0, z:11.8, len:1.2, w:0.1, rot:90 }, { x:7.0, z:11.8, len:1.2, w:0.1, rot:90 }
     ],
     downlights: [   // 원형 매입 다운라이트(사진): 형광등 사이
@@ -142,20 +143,20 @@ window.LAYOUT = {
 
     /* --- 비상구 유도등 + 소화기 (안내도) --- */
     { type:'exitSign', x:3.73, z:2.14, y:2.3, rot:180 },          // 출입구 위 비상구 표시(안내도)
-    { type:'exitSign', x:10.08, z:2.8, y:2.35, rot:-90 },           // 교육장 문 위(사진1)
+    { type:'exitSign', x:10.08, z:3.32, y:2.35, rot:-90 },           // 교육장 문 위(사진1)
     { type:'extinguisher', x:4.75, z:2.3 },
     { type:'extinguisher', x:11.2, z:2.25 },
     { type:'extinguisher', x:10.2, z:13.2 },
-    { type:'extinguisher', x:4.95, z:4.45 },
+    { type:'extinguisher', x:4.95, z:5.13 },
 
     /* --- 입구 앞 홀(추정): 엘리베이터 / 서쪽 복도 끝 화장실 --- */
     { type:'elevator', x:3.73, z:0.06, rot:180, floor:9 },        // 출입구 앞 엘리베이터 홀(추정)
-    { type:'restroom', x:0.27, z:5.57, rot:-90 },                 // 화장실 문(서쪽 벽, 사용자 표시) — 닫힌 문 + 표시
+    { type:'restroom', x:0.27, z:5.9, rot:-90 },                 // 화장실 문(서쪽 벽, 사용자 표시) — 닫힌 문 + 표시
 
     /* --- 북쪽 복도(사진): 북쪽 벽 TV · 테이블, 남쪽 벽 금색 사인 --- */
     { type:'mobileTv', x:7.6, z:2.3, rot:180 },                                   // 이동형 TV(약 55형, 검정 스탠드)
     { type:'cafeTable', x:9.05, z:2.33, w:1.1, d:0.6, sanitizer:true },              // 흰 상판 테이블 + 손소독제
-    { type:'goldSign', x:5.0, z:4.04, w:0.9 },                                     // 금색 사인 패널(로고)
+    { type:'goldSign', x:5.0, z:4.72, w:0.9 },                                     // 금색 사인 패널(로고)
 
     /* --- 교육장 북서쪽(사진): 문 오른쪽 북쪽 벽 따라 휴지통 · 소화기 · 정수기 · 회색 휴지통 · 테이블 --- */
     { type:'bin', x:10.55, z:2.3, square:true, w:0.26, h:0.42 },
@@ -164,7 +165,7 @@ window.LAYOUT = {
     { type:'bin', x:12.85, z:2.45, r:0.15, h:0.33, color:'fabricGray' },
     { type:'cafeTable', x:13.9, z:2.5, w:1.4, d:0.7 },
     { type:'speaker', x:10.75, z:2.12, rot:180, color:'white', w:0.22, h:0.3, d:0.16, top:2.55 },   // 흰 벽 스피커(사진)
-    { type:'wallPlate', x:10.08, z:3.5, rot:-90, w:0.21, h:0.3, y:1.3 },                          // 문 옆 안내문(사진, 교육장 안쪽)
-    { type:'wallPlate', x:9.92, z:3.5, rot:90, w:0.21, h:0.3, y:1.3 }                             // 문 옆 안내문(복도 쪽)
+    { type:'wallPlate', x:10.08, z:4.12, rot:-90, w:0.21, h:0.3, y:1.3 },                          // 문 옆 안내문(사진, 교육장 안쪽)
+    { type:'wallPlate', x:9.92, z:4.12, rot:90, w:0.21, h:0.3, y:1.3 }                             // 문 옆 안내문(복도 쪽)
   ]
 };

diff --git a/index.html b/index.html
@@ -178,10 +178,10 @@ a.pk-card:hover{transform:translateY(-4px);box-shadow:0 16px 36px rgba(11,46,103
   </div>
 </aside>
 <!-- 교육장 목록: sites/sites.js / 교육장별 공간 설정: sites/<id>/layout.js (치수·가구 배치는 거기서 수정) -->
-<script src="sites/sites.js?v=11192400"></script>
+<script src="sites/sites.js?v=11200920"></script>
 <script type="importmap">{"imports":{"three":"./lib/three.module.min.js","three/addons/":"./lib/addons/"}}</script>
 <script type="module">
-const V = "11192400", SITES = window.SITES || [], q = new URLSearchParams(location.search);
+const V = "11200920", SITES = window.SITES || [], q = new URLSearchParams(location.search);
 let id = q.get('site');
 if (!id && [...q.keys()].length) id = 'seoul';            // 예전 링크(?room=… 등)는 서울 구로로
 const S = SITES.find((s) => s.id === id);

diff --git a/수정방법.md b/수정방법.md
@@ -322,10 +322,10 @@ ceiling: { panels:[ { rect:[x1,z1,x2,z2], nx:2, nz:3 } ],  aircon:[[x,z], ...] }
 - 책상: 1.8×0.45m 흰 접이식(앞 가림판 · 회색 다리 · 검정 바퀴), 4줄 × 4개, 의자 `chairStyle:'shell'`(검정 쉘 + 메쉬 등받이 + 크롬 바퀴), 책상 서쪽에 붙여(`tuck`) 스크린(동쪽)을 봄.
 
 ## 부산 교육장 (sites/busan/layout.js)
-- 문 5개: 북쪽 벽 출입구(유리 양문 at:2.9) · 서쪽 벽 화장실 문(`restroom` 빌더, 닫힘) · 직원 사무실 문(복도 남쪽 벽 at:3.1, 잠김) · 강사대기실 문(at:8.35, `vision:'tall'`, 잠김) · 교육장 문(교육장 서쪽 벽 at:2.2, `vision:'panel'`, E 로 열기). 문 `at` = 벽 방향 절대 좌표의 문 시작점(가운데 아님).
-- 북쪽 복도 폭(11/19 넓힘): z2.0–4.12 = 2.12m (전 z2.0–3.62 = 1.62m). 남쪽 벽·문·금색 사인·강사대기실/직원 사무실 rect 의 4.12 를 같이 고치세요.
+- 문 5개: 북쪽 벽 출입구(유리 양문 at:2.9) · 서쪽 벽 화장실 문(`restroom` 빌더, 닫힘) · 직원 사무실 문(복도 남쪽 벽 at:3.1, 잠김) · 강사대기실 문(at:8.35, `vision:'tall'`, 잠김) · 교육장 문(교육장 서쪽 벽 at:2.86 폭 0.92, `vision:'panel'`, `hinge:'end'`(남쪽 경첩) + `swing:-88` = 복도에서 교육장 쪽으로 밀어서 열림, 레버는 북쪽, E 로 열기). 문 `at` = 벽 방향 절대 좌표의 문 시작점(가운데 아님).
+- 북쪽 복도 폭(11/20 사진 busan_corr_photo_wide 기준): z2.0–4.8 = 2.8m (끝벽 교육장 문 0.9m 대비 벽 폭 비율로 추정). 남쪽 벽·문·금색 사인·강사대기실(z4.8–6.34)/직원 사무실 rect 의 4.8 을 같이 고치세요.
 - 강사대기실 복도 벽 x5.55–8.25 = `style:'blinds'`(흰 프레임 유리 + 흰 블라인드). 금색 사인 `goldSign`, 복도 TV `mobileTv`, 테이블 `cafeTable`(sanitizer), 교육장 북서쪽 정수기 `waterDispenser` + 휴지통(`bin` square / color) + 테이블.
-- 기둥 2개 x15.4–16.4 (시계·빔프로젝트도 같이 옮김). 남쪽 벽 통창 = 기둥 서쪽 4칸(x11.0–15.4, 사진3) + 동쪽 2칸(x16.57–18.41, 18.74–20.53), 나머지는 벽. 바닥색 floorColor '#8a7a6b'.
+- 기둥 3개 x15.4–16.4: 북쪽 벽에 붙은 기둥(z2.0–3.0, 최종 도면·사진에서 스크린 등지고 왼쪽 모퉁이) · 가운데 · 남쪽 벽에 붙은 기둥 (시계·빔프로젝트도 같이 옮김). 남쪽 벽 통창 = 기둥 서쪽 4칸(x11.0–15.4, 사진3) + 동쪽 2칸(x16.57–18.41, 18.74–20.53), 나머지는 벽. 바닥색 floorColor '#8a7a6b'.
 - 공식 안내도(9F) 기준 축척 0.03 m/px (4인책상 한 줄 3.6m = 약 120px). px → m: x=(px-200)*0.03, z=(py-208)*0.03+2.0 (북쪽 2m = 입구 앞 엘리베이터 홀, 추정).
 - 입구 = 원래 북쪽 벽 비상구 표시 아래 유리 양문(x2.9–4.56). 초록 경로: 입구 → 북쪽 복도 동쪽 → 교육장 / 서쪽 복도 → 화장실.
 - 교육장 x10.0–20.7, z2.0–13.52: 서쪽 벽 = 스크린(z8.0, 2.4m) + 유리 화이트보드 2개 + 강사대기실 흰 문(출입 불가). 동쪽·남쪽 = `style:'curtain'` 연속 창(spandrel / band / head / bay 로 조절).
@@ -339,10 +339,8 @@ ceiling: { panels:[ { rect:[x1,z1,x2,z2], nx:2, nz:3 } ],  aircon:[[x,z], ...] }
 ## 서울 단상 (11/19)
 - `stage` 는 닫힌 상자(짙은 회색 몸체) + 카펫 상판(`top:'carpetDark'`) + 위 모서리·옆면 금속 트림, 계단은 `stepX:0`(가운데). 강연대는 `podium` x8.2 z1.28 로 단상 위에 완전히 올라가 있어요(단상 x7.6–11.6, z1.0–1.6).
 
-## 서울 — 건물 공용 복도 · 엘리베이터 홀 · 화장실 (sites/seoul/layout.js, 11/19 사용자 도면)
-- 도면 축척: x 0.075 m/px, z 0.0712 m/px (Neoful 블록 12.45 × 12.1m 기준, 유리입구 x10.8–12.25 와 일치).
-- `public.floors` = 걸을 수 있는 공용 바닥(테라조) + 천장: 서쪽 공용 복도 x9.0–12.45 · z12.1–31.1, EV 홀 x12.45–47.25 · z28.1–31.1, 여자 화장실 앞 x19.9–22.35 · z22.9–28.1, 남자 화장실 앞 x36.9–39.75 · z22.9–28.1.
-- `public.units` = 유리 너머 다른 호실(보기만). 벽 `finish:'white'|'granite'`(화강석), 유리 전면 `type:'glass', style:'store'`.
-- 가구: `stairsDoor`(STAIRS 방화문), `fireCabinet`, `restroom`(kind:'f'|'m', text), `hangSign`, `elevator`(noPanel, floor), `tactile`(점자블록), `plainDoor`.
-- 바닥 초록 동선 `routes`: 교육장 문 → 유리입구 → 공용 복도 → EV 홀 → 여자/남자 화장실. 바로가기 '화장실' · 'EV 홀'.
-- 위에서 본 전체 평면 스크린샷: `?site=seoul&shot=planwide`.
+## 서울 — 건물 2층 공용 복도 · EV 홀 · 화장실 (sites/seoul/layout.js, 11/20 도면 seoul_plan2 + 사진, /workspace/neo_tmp/gen_seoul.py 로 생성)
+- 링 모양 복도: 정면 복도(Neoful 유리 입구 앞, x9.3–33.71 · z12.1–14.77, 맞은편 L211 OK 세무회계 `okSlats` + L212–L215 유리 전면) · 서쪽 복도(x9.3–12.0, L209/208/207 유리 전면, 코어 쪽 STAIRS 문 + 소화전) · 동쪽 복도(x31.06–33.71) · 남쪽 복도(z32.74–35.18).
+- EV 홀 x12.0–31.06 · z23.36–28.05 (화강석 벽, 점자블록 `tactile`): 북쪽 엘리베이터 3대(x19.0/21.39/23.78, `dark:true`) + 남쪽(뒤쪽) 엘리베이터 3대(x15.44/20.6/23.6) + 흰 문 `plainDoor`. 여자 화장실 통로 x15.35–16.83, 남자 x25.95–27.53 (z20.26–23.36), 입구 옆 `pictoPlate`.
+- `public.floors` = 걸을 수 있는 바닥, `public.units` = 유리 너머 다른 호실(보기만, 5번째 값 'n'|'s'|'e'|'w' = 유리 쪽 면). `corridor.shell:false`(예전 복도 상자 없음, 입구 포털만).
+- 위에서 본 전체 평면: `?site=seoul&shot=planwide`. 바로가기 '화장실' · 'EV 홀'.
